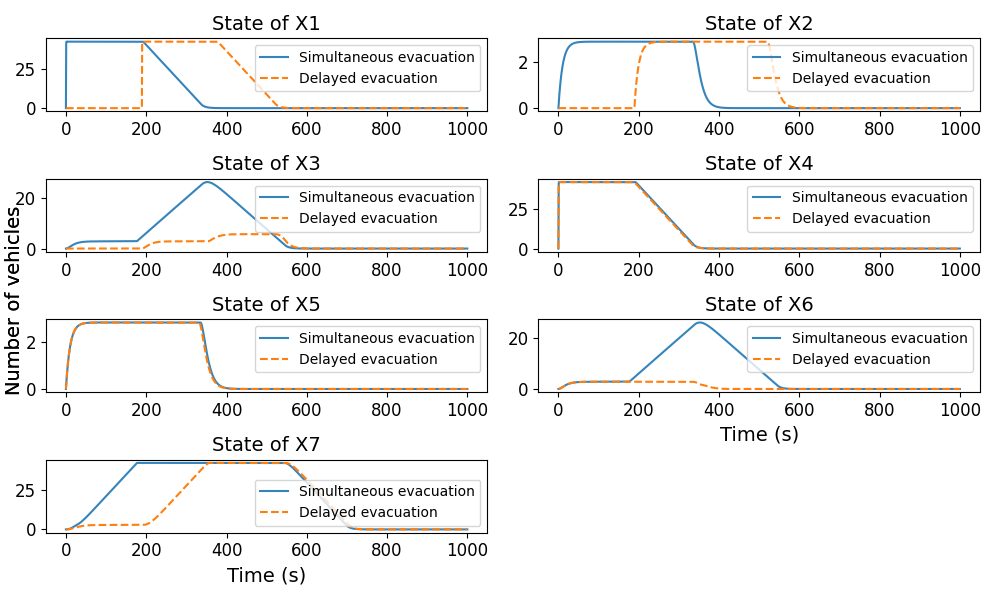
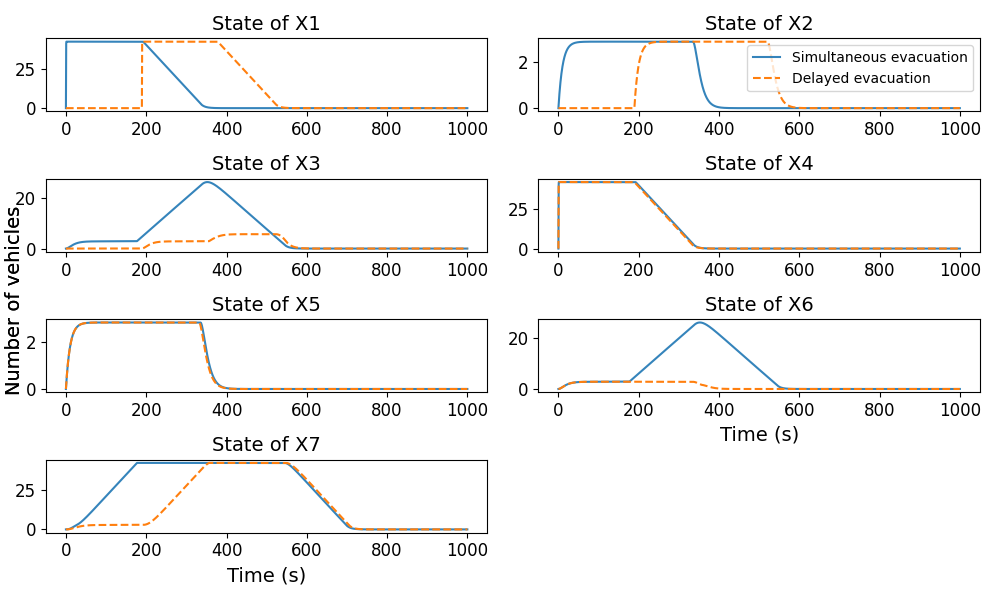
amélioration de l'affichage + tracé courbes MPC/Simulateur pour merge graph

diff --git a/graph_to_test_merges/main.py b/graph_to_test_merges/main.py
@@ -51,82 +51,101 @@ print(graph.edges)
 # simu.results_2(0.1,10000*2)
 
 #### To plot both strategies on the same graph
-N_simu = 10000
-h_simu = 0.1
+# N_simu = 10000
+# h_simu = 0.1
 
-simu2 = Simulation(graph,sommets)
+# simu2 = Simulation(graph,sommets)
 
-simu.setting(v_properties)
-simu.simu(h_simu,N_simu,False)
+# simu.setting(v_properties)
+# simu.simu(h_simu,N_simu,False)
 
-simu2.setting(v_properties)
-simu2.simu(h_simu,N_simu,True)
+# simu2.setting(v_properties)
+# simu2.simu(h_simu,N_simu,True)
 
-# on récupère les données de chaque simulation et on les affiche ensemble
-T1,X1 = simu.T,simu.X
-T2,X2 = simu2.T,simu2.X
+# # on récupère les données de chaque simulation et on les affiche ensemble
+# T1,X1 = simu.T,simu.X
+# T2,X2 = simu2.T,simu2.X
 
-first_key = next(iter(T1))
-print(len(T1[first_key].x))
+# first_key = next(iter(T1))
+# print(len(T1[first_key].x))
 
-t_inputs = np.arange(N_simu)*h_simu
-t_states = np.arange(N_simu)*h_simu
+# t_inputs = np.arange(N_simu)*h_simu
+# t_states = np.arange(N_simu)*h_simu
 
-fig_T,axs_T = simu.create_subplot(T1,t_inputs,4)
-simu.add_data(fig_T,axs_T,t_inputs,T2)
-plt.show()
+# fig_T,axs_T = simu.create_subplot(T1,t_inputs,4,'Simultaneous evacuation')
+# simu.add_data(fig_T,axs_T,t_inputs,T2,"Delayed evacuation")
+# plt.show()
 
-fig_X,axs_X = simu.create_subplot(X1,t_states,6)
-simu.add_data(fig_X,axs_X,t_states,X2)
-plt.show()
+# fig_X,axs_X = simu.create_subplot(X1,t_states,6,'Simultaneous evacuation')
+# simu.add_data(fig_X,axs_X,t_states,X2,"Delayed evacuation")
+# plt.show()
+
 
 
 ######################  Verification of simulator  ##########################
 
 
 
-# # Number of iterations
-# N = 2000
-# # MPC horizon
-# nh = int(N/10)
-# M = int(nh/2)
-# # Nb of tanks
-# nt = 2
-# # Nb of cells
-# nc = 7
-# # Step time
-# h = 0.1
-# # Max speeds of the cells
-# V = 1/3.6*np.array([70, 70, 70, 70, 70, 70, 70], dtype=float).reshape(nc,1)
-# # Slopes of supply function
-# W = 20/3.6*np.eye(nc)
-# # Lengths of roads
-# L = np.array([500, 500, 500, 500, 500, 500, 500], dtype=float).reshape(nc,1)
-# # Capacities of the cells
-# Cap = 1/4.7*L *20/3.6 *1 # 1 voie mobilisée
-# # Max flow
-# Fmax = np.array([1000/3600, 1000/3600, 1000/3600, 1000/3600, 1000/3600, 1000/3600, 1000/3600], dtype=float).reshape(nc,1)
+# Number of iterations
+N = 2000
+# MPC horizon
+nh = int(N/10)
+M = int(nh/2)
+# Nb of tanks
+nt = 2
+# Nb of cells
+nc = 7
+# Step time
+h = 0.1
+# Max speeds of the cells
+V = 1/3.6*np.array([70, 70, 70, 70, 70, 70, 70], dtype=float).reshape(nc,1)
+# Slopes of supply function
+W = 20/3.6*np.eye(nc)
+# Lengths of roads
+L = np.array([200, 200, 200, 200, 200, 200, 200], dtype=float).reshape(nc,1)
+# Capacities of the cells
+Cap = 1/4.7*L *20/3.6 *1 # 1 voie mobilisée
+# Max flow
+Fmax = np.array([1000/3600, 1000/3600, 1000/3600, 1000/3600, 1000/3600, 1000/3600, 1000/3600], dtype=float).reshape(nc,1)
 
-# Mt = np.array([[-1, 0],
-#                [0, -1], 
-#                [1, 0],
-#                [0, 0],
-#                [0, 0],
-#                [0, 1],
-#                [0, 0],
-#                [0, 0],
-#                [0, 0]], dtype=float)
+Mt = np.array([[-1, 0],
+               [0, -1], 
+               [1, 0],
+               [0, 0],
+               [0, 0],
+               [0, 1],
+               [0, 0],
+               [0, 0],
+               [0, 0]], dtype=float)
 
-# Mc = np.array([[0, 0, 0, 0, 0, 0, 0],
-#                [0, 0, 0, 0, 0, 0, 0], 
-#                [-1, 0, 0, 0, 0, 0, 0],
-#                [1, -1, 0, 0, 0, 0, 0],
-#                [0, 1, -1, 0, 0, 0, 0],
-#                [0, 0, 0, -1, 0, 0, 0],
-#                [0, 0, 0, 1, -1, 0, 0],
-#                [0, 0, 0, 0, 1, -1, 0],
-#                [0, 0, 1, 0, 0, 1, -1]], dtype=float)
+Mc = np.array([[0, 0, 0, 0, 0, 0, 0],
+               [0, 0, 0, 0, 0, 0, 0], 
+               [-1, 0, 0, 0, 0, 0, 0],
+               [1, -1, 0, 0, 0, 0, 0],
+               [0, 1, -1, 0, 0, 0, 0],
+               [0, 0, 0, -1, 0, 0, 0],
+               [0, 0, 0, 1, -1, 0, 0],
+               [0, 0, 0, 0, 1, -1, 0],
+               [0, 0, 1, 0, 0, 1, -1]], dtype=float)
 
-# simu.setting(v_properties)
-# X_hist, U_hist = simu.verif_simu(h, M, N, nh, nt, nc, V, W, L, Cap, Fmax, Mt, Mc)
+simu.setting(v_properties)
+X_hist, U_hist = simu.verif_simu(h, M, N, nh, nt, nc, V, W, L, Cap, Fmax, Mt, Mc)
 # simu.results_2_mpc(h, N, U_hist, X_hist)
+
+# on récupère les données de chaque simulation et on les affiche ensemble
+T1,X1 = simu.T,simu.X
+
+first_key = next(iter(T1))
+print("Taille dico" + str(len(T1[first_key].x)))
+print("Taille X_hist" + str(len(X_hist)))
+
+t_inputs = np.arange(N+1)*h
+t_states = np.arange(N+1)*h
+
+fig_T,axs_T = simu.create_subplot(T1,t_inputs,4,"Simulator")
+simu.add_data_list(fig_T,axs_T,t_inputs,X_hist[0:2,:],"MPC")
+plt.show()
+
+fig_X,axs_X = simu.create_subplot(X1,t_states,6,"Simulator")
+simu.add_data_list(fig_X,axs_X,t_states,X_hist[2:,:],"MPC")
+plt.show()

diff --git a/line_graph/model.py b/line_graph/model.py
@@ -372,7 +372,7 @@ class Simulation:
     # Displays with subplots
     # dict: dictionnary containing the data (type Cell)
     # t: time vector
-    def create_subplot(self, dict, t, hauteur):
+    def create_subplot(self, dict, t, hauteur, label):
         # Nombre de variables
         n = len(dict)
 
@@ -387,7 +387,7 @@ class Simulation:
 
         # Boucle sur chaque variable
         for i, var in enumerate(dict):
-            axs[i].plot(t, dict[var].x, '-', alpha = 0.9, label = 'Simultaneous evacuation')
+            axs[i].plot(t, dict[var].x, '-', alpha = 0.9, label = label)
             axs[i].set_title("State of " + var, fontsize=14)
             # Taille des graduations
             axs[i].tick_params(axis='both', labelsize=12)
@@ -506,16 +506,18 @@ class Simulation:
         # self.create_subplot_mpc(tab_u, t_inputs)
         
 
-    def add_data(self, fig, axs, t, data):
+    def add_data(self, fig, axs, t, data, label):
         for i, var in enumerate(data):
-            axs[i].plot(t, data[var].x, '--', label="Delayed evacuation")
-            axs[i].legend()
+            axs[i].plot(t, data[var].x, '--', label=label)
+            if i == 1:
+                axs[i].legend()
                 
 
-    def add_data_list(self, fig, axs, t, data):
+    def add_data_list(self, fig, axs, t, data, label):
         n_rows, n_col = data.shape
 
         # Boucle sur chaque variable
         for i in range(n_rows):
-            axs[i].plot(t, data[i,:], '--', label="MPC")
-            axs[i].legend()
+            axs[i].plot(t, data[i,:], '--', label=label)
+            if i == 1:
+                axs[i].legend()

diff --git a/graph_to_test_merges/model.py b/graph_to_test_merges/model.py
@@ -314,7 +314,7 @@ class Simulation:
     # Displays with subplots
     # dict: dictionnary containing the data (type Cell)
     # t: time vector
-    def create_subplot(self, dict, t, hauteur):
+    def create_subplot(self, dict, t, hauteur, label):
         # Nombre de variables
         n = len(dict)
 
@@ -329,7 +329,7 @@ class Simulation:
 
         # Boucle sur chaque variable
         for i, var in enumerate(dict):
-            axs[i].plot(t, dict[var].x, '-', alpha = 0.9, label = 'Simultaneous evacuation')
+            axs[i].plot(t, dict[var].x, '-', alpha = 0.9, label = label)
             axs[i].set_title("State of " + var, fontsize=14)
             # Taille des graduations
             axs[i].tick_params(axis='both', labelsize=12)
@@ -449,10 +449,20 @@ class Simulation:
         # self.create_subplot_mpc(tab_u, t_inputs)
         
     
-    def add_data(self, fig, axs, t, data):
+    def add_data(self, fig, axs, t, data, label):
         for i, var in enumerate(data):
-            axs[i].plot(t, data[var].x, '--', label="Delayed evacuation")
-            axs[i].legend()
+            axs[i].plot(t, data[var].x, '--', label=label)
+            if i == 1:
+                axs[i].legend()
+
+    def add_data_list(self, fig, axs, t, data, label):
+        n_rows, n_col = data.shape
+
+        # Boucle sur chaque variable
+        for i in range(n_rows):
+            axs[i].plot(t, data[i,:], '--', label=label)
+            if i == 1:
+                axs[i].legend()
 
                 
 

diff --git a/line_graph/main.py b/line_graph/main.py
@@ -85,12 +85,12 @@ print(graph.edges)
 # t_inputs = np.arange(N_simu)*h_simu
 # t_states = np.arange(N_simu)*h_simu
 
-# fig_T,axs_T = simu.create_subplot(T1,t_inputs,4)
-# simu.add_data(fig_T,axs_T,t_inputs,T2)
+# fig_T,axs_T = simu.create_subplot(T1,t_inputs,4,'Simultaneous evacuation')
+# simu.add_data(fig_T,axs_T,t_inputs,T2,"Delayed evacuation")
 # plt.show()
 
-# fig_X,axs_X = simu.create_subplot(X1,t_states,6)
-# simu.add_data(fig_X,axs_X,t_states,X2)
+# fig_X,axs_X = simu.create_subplot(X1,t_states,6,'Simultaneous evacuation')
+# simu.add_data(fig_X,axs_X,t_states,X2,"Delayed evacuation")
 # plt.show()
 
 ######################  Verification of simulator  ##########################
@@ -151,10 +151,10 @@ print("Taille X_hist" + str(len(X_hist)))
 t_inputs = np.arange(N+1)*h
 t_states = np.arange(N+1)*h
 
-fig_T,axs_T = simu.create_subplot(T1,t_inputs,4)
-simu.add_data_list(fig_T,axs_T,t_inputs,X_hist[0:2,:])
+fig_T,axs_T = simu.create_subplot(T1,t_inputs,4,"Simulator")
+simu.add_data_list(fig_T,axs_T,t_inputs,X_hist[0:2,:],"MPC")
 plt.show()
 
-fig_X,axs_X = simu.create_subplot(X1,t_states,6)
-simu.add_data_list(fig_X,axs_X,t_states,X_hist[2:,:])
+fig_X,axs_X = simu.create_subplot(X1,t_states,6,"Simulator")
+simu.add_data_list(fig_X,axs_X,t_states,X_hist[2:,:],"MPC")
 plt.show()
